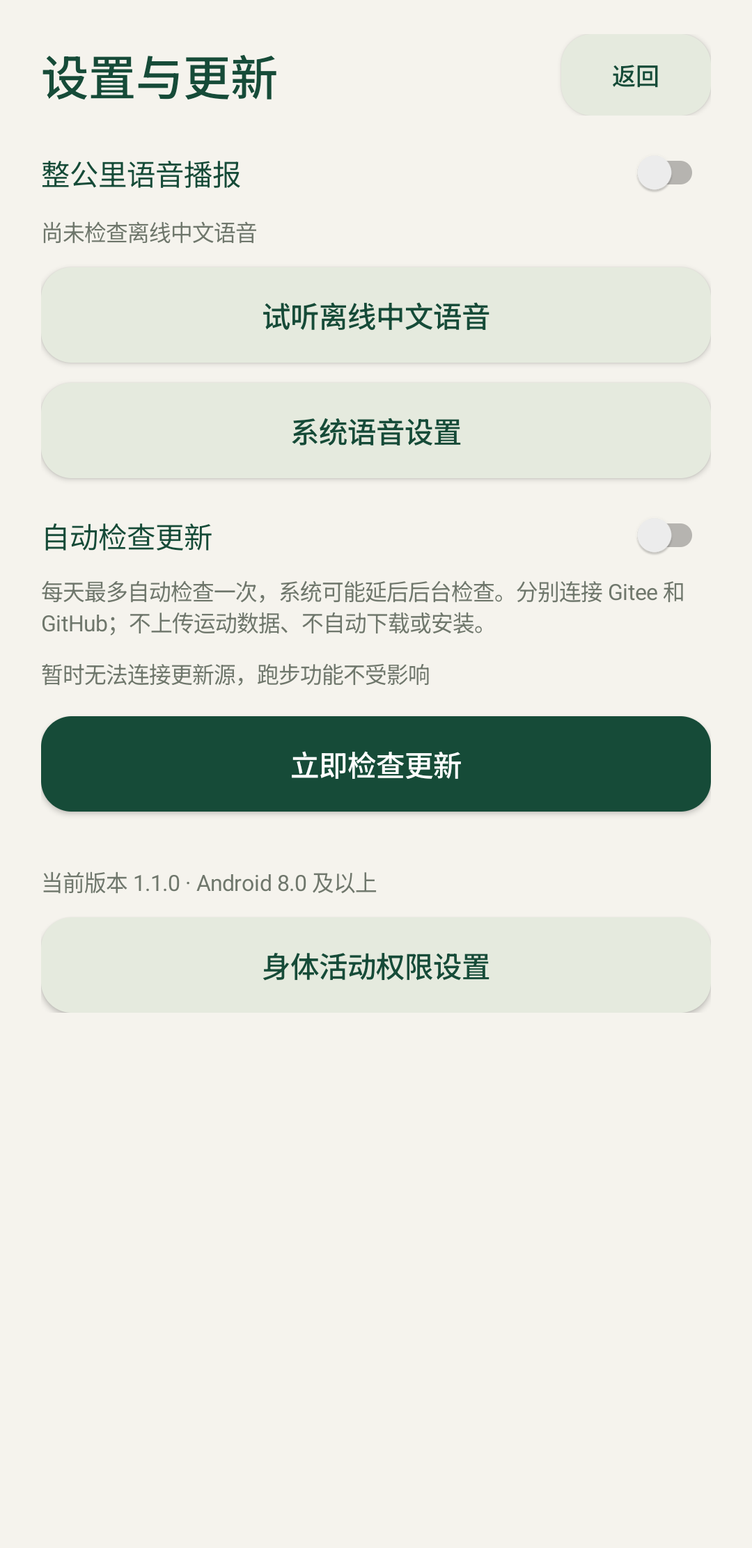
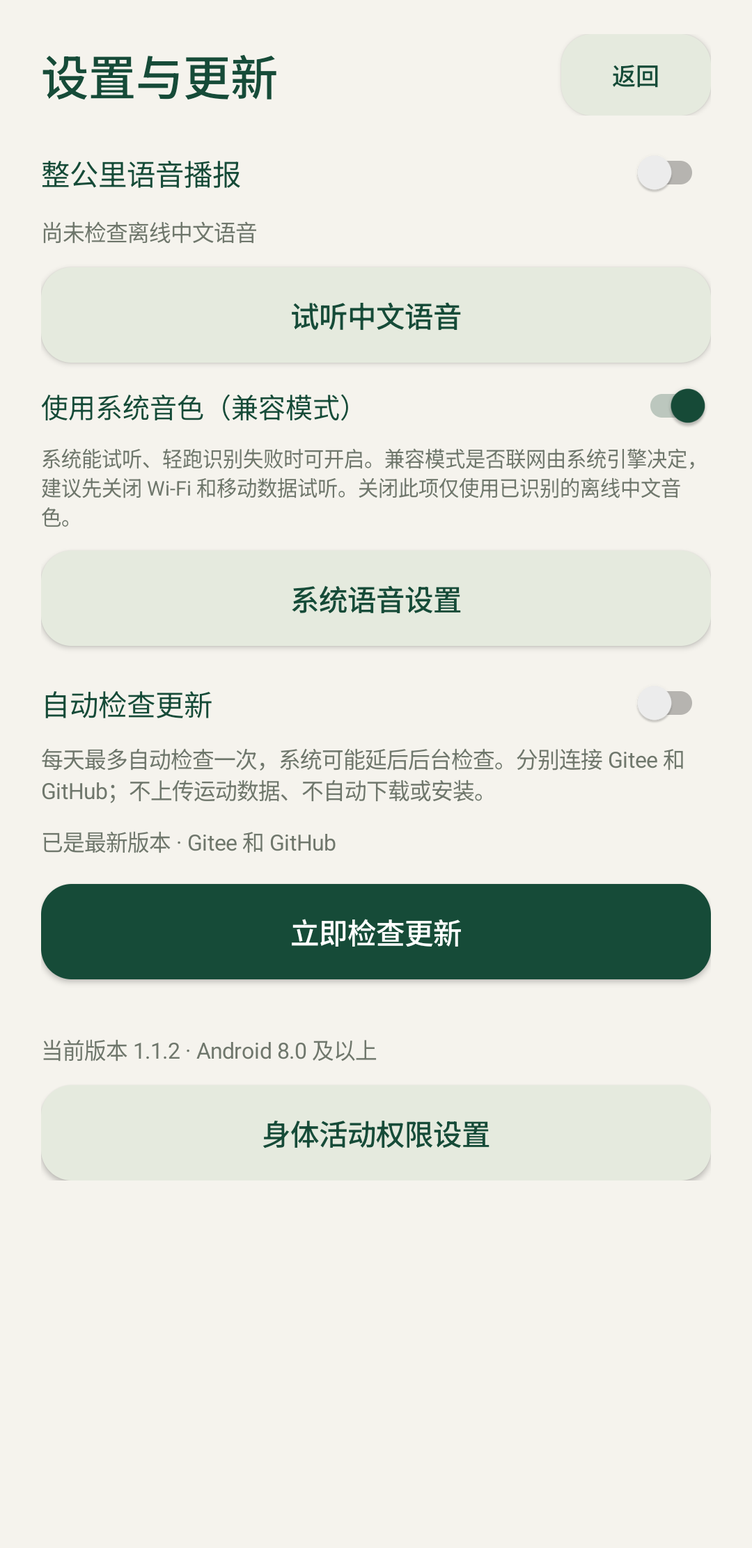
Fix Chinese voice detection and add system voice compatibility mode

diff --git a/app/src/main/java/cn/lightrun/app/MainActivity.java b/app/src/main/java/cn/lightrun/app/MainActivity.java
@@ -53,7 +53,7 @@ public final class MainActivity extends Activity {
         bound=bindService(new Intent(this,TrackingService.class),connection,BIND_AUTO_CREATE);
     }
     @Override protected void onSaveInstanceState(Bundle state) { super.onSaveInstanceState(state); state.putBoolean("pendingStart",pendingStart);state.putString("page",page);if(detail!=null)state.putString("detailId",detail.id);if(export!=null)state.putString("exportId",export.id); }
-    @Override protected void onResume() { super.onResume(); visible=true; handler.removeCallbacks(pulse); handler.post(pulse);UpdateJobService.schedule(this);handler.postDelayed(()->{if(visible)UpdateChecker.check(this,false,(info,message)->refresh());},1000); }
+    @Override protected void onResume() { super.onResume(); visible=true;if(page.equals("settings")&&service!=null&&!running())service.resetVoice();handler.removeCallbacks(pulse); handler.post(pulse);UpdateJobService.schedule(this);handler.postDelayed(()->{if(visible)UpdateChecker.check(this,false,(info,message)->refresh());},1000); }
     @Override protected void onPause() { visible=false; handler.removeCallbacks(pulse); super.onPause(); }
     @Override protected void onDestroy() { if(bound)unbindService(connection); super.onDestroy(); }
     private int dp(float value) { return Math.round(value*getResources().getDisplayMetrics().density); }
@@ -107,7 +107,7 @@ public final class MainActivity extends Activity {
         gap(16);addRoute(null);
         gap(14);TextView foot=text("离线记录 · 无广告 · 数据只存本机",12,MUTED,false);foot.setGravity(Gravity.CENTER);content.addView(foot);
         gap(6);TextView help=text("使用与隐私说明",12,GREEN,false);help.setGravity(Gravity.CENTER);help.setPadding(0,dp(12),0,dp(12));help.setOnClickListener(v->help());content.addView(help);refresh();
-        updateLink=text("设置与更新 · v1.1.1",13,GREEN,true);updateLink.setGravity(Gravity.CENTER);updateLink.setPadding(0,dp(12),0,dp(12));updateLink.setOnClickListener(v->showSettings());content.addView(updateLink);refresh();
+        updateLink=text("设置与更新 · v1.1.2",13,GREEN,true);updateLink.setGravity(Gravity.CENTER);updateLink.setPadding(0,dp(12),0,dp(12));updateLink.setOnClickListener(v->showSettings());content.addView(updateLink);refresh();
     }
     private void refresh() {
         if(page.equals("settings")) {
@@ -125,7 +125,7 @@ public final class MainActivity extends Activity {
         subtitle.setText(s!=null&&s.active?"专注脚下，剩下的交给轻跑。":"打开，即刻出发。");
         steps.setText("本次步数 · "+(s!=null&&s.stepsRecorded?String.format(Locale.CHINA,"%,d 步",s.steps):"—")
                 +(s!=null&&service!=null&&!"正在计步".equals(service.stepStatus)?"\n"+service.stepStatus:""));
-        if(updateLink!=null){UpdateInfo update=UpdateChecker.cached(this);updateLink.setText(update!=null&&update.code>UpdateChecker.installedCode(this)?"发现新版本 "+update.version+" · 查看更新":"设置与更新 · v1.1.1");}
+        if(updateLink!=null){UpdateInfo update=UpdateChecker.cached(this);updateLink.setText(update!=null&&update.code>UpdateChecker.installedCode(this)?"发现新版本 "+update.version+" · 查看更新":"设置与更新 · v1.1.2");}
     }
     private void requestStart() {
         if(service==null)return;
@@ -201,7 +201,7 @@ public final class MainActivity extends Activity {
     }
     private void help() {
         new AlertDialog.Builder(this).setTitle("轻跑 · 简单地跑")
-                .setMessage("1. 在室外开启手机定位，授予精确位置权限后点开跑。首次定位可能需要几十秒。\n\n2. 锁屏后会继续记录。OPPO 等手机请在应用电池设置中允许后台活动；不要强行停止应用。\n\n3. 暂停期间不计时、不计距离、不累计步数。定位间断超过 30 秒会分段。距离是 GPS 估算值，弱信号可能少记。\n\n4. 步数来自手机传感器，需要身体活动权限；无传感器时仍可记录轨迹。传感器延迟、暂停或中断可能少记步数。旧记录不会凭距离补算步数。\n\n5. 整公里播报使用系统离线中文语音，没有语音包时请在系统语音设置安装；可在设置中关闭播报。\n\n6. 轨迹图不含街道底图。运动记录和步数只存本机，不收集账号、不上传轨迹。只有检查更新会连接 Gitee 和 GitHub；网站会收到普通网络请求（包括 IP），不发送位置或设备标识。下载入口交给浏览器处理，不自动安装。\n\n7. 异常中断后恢复为暂停，通常最多丢失约 5 秒未保存数据。覆盖更新保留记录；卸载会删除，重要记录请先导出 GPX。")
+                .setMessage("1. 在室外开启手机定位，授予精确位置权限后点开跑。首次定位可能需要几十秒。\n\n2. 锁屏后会继续记录。OPPO 等手机请在应用电池设置中允许后台活动；不要强行停止应用。\n\n3. 暂停期间不计时、不计距离、不累计步数。定位间断超过 30 秒会分段。距离是 GPS 估算值，弱信号可能少记。\n\n4. 步数来自手机传感器，需要身体活动权限；无传感器时仍可记录轨迹。传感器延迟、暂停或中断可能少记步数。旧记录不会凭距离补算步数。\n\n5. 整公里播报默认使用已识别的离线中文音色。若系统试听正常而应用识别失败，可开启系统音色兼容模式，是否联网由系统引擎决定，建议断网试听。可在设置中关闭播报。\n\n6. 轨迹图不含街道底图。运动记录和步数只存本机，不收集账号、不上传轨迹。检查更新会连接 Gitee 和 GitHub；网站会收到普通网络请求（包括 IP），不发送位置或设备标识。主动开启语音兼容模式后，系统语音引擎可能联网处理播报文字（公里、用时、配速），请以系统引擎设置为准。下载入口交给浏览器处理，不自动安装。\n\n7. 异常中断后恢复为暂停，通常最多丢失约 5 秒未保存数据。覆盖更新保留记录；卸载会删除，重要记录请先导出 GPX。")
                 .setPositiveButton("知道了",null).show();
     }
     private boolean running(){return service!=null&&service.session!=null&&service.session.active;}
@@ -211,7 +211,10 @@ public final class MainActivity extends Activity {
         Switch voice=new Switch(this);voice.setText("整公里语音播报");voice.setTextColor(GREEN);voice.setTextSize(17);voice.setChecked(prefs.getBoolean("voice",true));content.addView(voice);
         voice.setOnCheckedChangeListener((b,enabled)->{prefs.edit().putBoolean("voice",enabled).apply();if(service!=null)service.voiceSettingsChanged(enabled);});
         gap(12);voiceStatus=text("",13,MUTED,false);content.addView(voiceStatus);gap(12);
-        Button preview=button("试听离线中文语音",false);content.addView(preview);preview.setOnClickListener(v->{if(running()){toast("请暂停后试听语音");return;}if(service!=null){service.previewVoice();handler.postDelayed(this::refresh,500);}});
+        Button preview=button("试听中文语音",false);content.addView(preview);preview.setOnClickListener(v->{if(running()){toast("请暂停后试听语音");return;}if(service!=null){service.previewVoice();handler.postDelayed(this::refresh,500);}});
+        gap(12);Switch systemVoice=new Switch(this);systemVoice.setText("使用系统音色（兼容模式）");systemVoice.setTextColor(GREEN);systemVoice.setTextSize(16);systemVoice.setChecked(prefs.getBoolean("systemVoice",false));content.addView(systemVoice);
+        systemVoice.setOnCheckedChangeListener((b,enabled)->{if(running()){toast("请暂停后切换音色模式");systemVoice.setOnCheckedChangeListener(null);systemVoice.setChecked(!enabled);showSettings();return;}prefs.edit().putBoolean("systemVoice",enabled).apply();if(service!=null)service.resetVoice();refresh();});
+        gap(8);content.addView(text("系统能试听、轻跑识别失败时可开启。兼容模式是否联网由系统引擎决定，建议先关闭 Wi-Fi 和移动数据试听。关闭此项仅使用已识别的离线中文音色。",12,MUTED,false));
         gap(12);Button speech=button("系统语音设置",false);content.addView(speech);speech.setOnClickListener(v->{try{startActivity(new Intent("com.android.settings.TTS_SETTINGS"));}catch(ActivityNotFoundException e){try{startActivity(new Intent(Settings.ACTION_SETTINGS));}catch(ActivityNotFoundException ignored){toast("请打开手机设置，搜索文字转语音");}}});
         gap(20);Switch automatic=new Switch(this);automatic.setText("自动检查更新");automatic.setTextColor(GREEN);automatic.setTextSize(17);automatic.setChecked(prefs.getBoolean("autoUpdate",true));content.addView(automatic);
         automatic.setOnCheckedChangeListener((b,enabled)->{prefs.edit().putBoolean("autoUpdate",enabled).apply();UpdateJobService.schedule(this);if(enabled&&!running())UpdateChecker.check(this,false,(info,message)->refresh());});
@@ -223,7 +226,7 @@ public final class MainActivity extends Activity {
             UpdateChecker.check(this,true,(info,message)->{if(isFinishing()||isDestroyed())return;refresh();if(!visible||running())return;if(info!=null&&info.code>UpdateChecker.installedCode(this))showUpdate(info);else toast(message);});refresh();
         });
         gap(12);download=button("查看新版与下载入口",false);content.addView(download);download.setOnClickListener(v->{UpdateInfo info=UpdateChecker.cached(this);if(info!=null)showUpdate(info);});
-        gap(20);content.addView(text("当前版本 1.1.1 · Android 8.0 及以上",13,MUTED,false));
+        gap(20);content.addView(text("当前版本 1.1.2 · Android 8.0 及以上",13,MUTED,false));
         gap(12);Button permission=button("身体活动权限设置",false);content.addView(permission);permission.setOnClickListener(v->startActivity(new Intent(Settings.ACTION_APPLICATION_DETAILS_SETTINGS,Uri.parse("package:"+getPackageName()))));refresh();
     }
     private void showUpdate(UpdateInfo info) {

diff --git a/app/src/main/java/cn/lightrun/app/VoiceCoach.java b/app/src/main/java/cn/lightrun/app/VoiceCoach.java
@@ -4,10 +4,9 @@ import android.content.Context;
 import android.media.*;
 import android.os.*;
 import android.speech.tts.*;
-import java.util.Locale;
-import java.util.Set;
+import java.util.*;
 
-/** Uses only a locally installed Chinese voice; never falls back to cloud synthesis. */
+/** Offline by default. System compatibility mode requires an explicit user preference. */
 public final class VoiceCoach {
     private final Context context;
     private final Handler main=new Handler(Looper.getMainLooper());
@@ -15,6 +14,8 @@ public final class VoiceCoach {
     private TextToSpeech tts;
     private boolean ready,closed,focused;
     private String pending;
+    private boolean compatibility;
+    private Bundle parameters;
     public String status="尚未检查离线中文语音";
     private final AudioAttributes attributes=new AudioAttributes.Builder()
             .setUsage(AudioAttributes.USAGE_ASSISTANCE_NAVIGATION_GUIDANCE).setContentType(AudioAttributes.CONTENT_TYPE_SPEECH).build();
@@ -26,43 +27,84 @@ public final class VoiceCoach {
     }
     public void prepare() {
         if(closed||tts!=null)return;
-        status="正在检查离线中文语音";
+        compatibility=UpdateChecker.preferences(context).getBoolean("systemVoice",false);
+        status="正在检查中文语音";
         tts=new TextToSpeech(context,result->main.post(()->initialize(result)));
     }
     private void initialize(int result) {
         if(closed||tts==null)return;
         if(result!=TextToSpeech.SUCCESS){status="系统语音引擎不可用";pending=null;return;}
         try {
-            Set<Voice> voices=tts.getVoices();Voice chosen=null;
-            if(voices!=null)for(Voice voice:voices) {
-                if(!"zh".equals(voice.getLocale().getLanguage())||voice.isNetworkConnectionRequired()
-                        ||(voice.getFeatures()!=null&&voice.getFeatures().contains(TextToSpeech.Engine.KEY_FEATURE_NOT_INSTALLED)))continue;
-                if(chosen==null||("CN".equals(voice.getLocale().getCountry())&&!"CN".equals(chosen.getLocale().getCountry()))
-                        ||(voice.getLocale().getCountry().equals(chosen.getLocale().getCountry())&&voice.getQuality()>chosen.getQuality()))chosen=voice;
-            }
-            if(chosen==null||tts.setVoice(chosen)!=TextToSpeech.SUCCESS){status="未安装离线中文语音，请在系统语音设置中安装";pending=null;return;}
+            parameters=new Bundle();
+            boolean selected=compatibility?selectSystemVoice():selectOfflineVoice();
+            if(!selected){status=compatibility?"系统引擎未能提供中文语音，请检查系统试听":"无法识别可用的离线中文音色，可尝试系统音色兼容模式";pending=null;return;}
             tts.setAudioAttributes(attributes);tts.setSpeechRate(1f);
             tts.setOnUtteranceProgressListener(new UtteranceProgressListener() {
                 public void onStart(String id){}
                 public void onDone(String id){main.post(()->releaseFocus());}
-                @Override public void onError(String id){main.post(()->{status="语音播放失败，请检查系统语音设置";releaseFocus();});}
+                @Override public void onError(String id){onError(id,TextToSpeech.ERROR);}
+                @Override public void onError(String id,int error){main.post(()->{ready=false;status="语音播放失败（"+error+"），请检查系统语音设置";releaseFocus();});}
             });
-            ready=true;status="离线中文语音已就绪";
+            ready=true;status=compatibility?"系统中文音色已就绪 · 离线能力由系统引擎决定":"离线中文语音已就绪";
             String text=pending;pending=null;if(text!=null)speak(text);
         } catch(RuntimeException e){status="系统语音引擎不可用";pending=null;}
+    }
+    private static boolean chinese(Locale locale) {
+        if(locale==null)return false;
+        String language=locale.getLanguage();
+        return "zh".equalsIgnoreCase(language)||"zho".equalsIgnoreCase(language)||"chi".equalsIgnoreCase(language);
+    }
+    private static boolean local(Voice voice) {
+        return voice!=null&&chinese(voice.getLocale())&&!voice.isNetworkConnectionRequired()
+                &&(voice.getFeatures()==null||!voice.getFeatures().contains(TextToSpeech.Engine.KEY_FEATURE_NOT_INSTALLED));
+    }
+    private static boolean mainland(Voice voice) {
+        String country=voice.getLocale().getCountry();return "CN".equalsIgnoreCase(country)||"CHN".equalsIgnoreCase(country);
+    }
+    private boolean chooseOffline() {
+        // Keep the user's preferred Chinese voice when the engine exposes it as local.
+        Voice current=tts.getVoice();
+        if(local(current)&&tts.setVoice(current)==TextToSpeech.SUCCESS)return true;
+        Set<Voice> voices=tts.getVoices();List<Voice> candidates=new ArrayList<>();
+        if(voices!=null)for(Voice voice:voices)if(local(voice))candidates.add(voice);
+        candidates.sort(Comparator.comparingInt((Voice v)->mainland(v)?1:0).thenComparingInt(Voice::getQuality).reversed());
+        for(Voice voice:candidates)if(tts.setVoice(voice)==TextToSpeech.SUCCESS)return true;
+        return false;
+    }
+    @SuppressWarnings("deprecation")
+    private boolean selectOfflineVoice() {
+        if(chooseOffline())return true;
+        // Some engines populate their voice list only after a language capability query.
+        tts.isLanguageAvailable(Locale.SIMPLIFIED_CHINESE);
+        if(chooseOffline())return true;
+        Set<Voice> voices=tts.getVoices();
+        // Legacy embedded synthesis is used only when there is no conflicting modern metadata.
+        if(voices!=null&&!voices.isEmpty())return false;
+        Set<String> features=tts.getFeatures(Locale.SIMPLIFIED_CHINESE);
+        if(features==null||!features.contains(TextToSpeech.Engine.KEY_FEATURE_EMBEDDED_SYNTHESIS))return false;
+        if(!chinese(tts.getLanguage())&&tts.setLanguage(Locale.SIMPLIFIED_CHINESE)<TextToSpeech.LANG_AVAILABLE)return false;
+        parameters.putBoolean(TextToSpeech.Engine.KEY_FEATURE_EMBEDDED_SYNTHESIS,true);
+        parameters.putBoolean(TextToSpeech.Engine.KEY_FEATURE_NETWORK_SYNTHESIS,false);
+        return true;
+    }
+    @SuppressWarnings("deprecation")
+    private boolean selectSystemVoice() {
+        // Preserve the system preset. This opt-in path does not claim to enforce offline synthesis.
+        if(chinese(tts.getLanguage()))return true;
+        return tts.setLanguage(Locale.SIMPLIFIED_CHINESE)>=TextToSpeech.LANG_AVAILABLE;
     }
     public void speak(String text) {
         if(closed)return;
         if(tts==null){pending=text;prepare();return;}
         if(!ready){
             pending=text;
-            if(!"正在检查离线中文语音".equals(status)){tts.shutdown();tts=null;prepare();}
+            if(!"正在检查中文语音".equals(status)){tts.shutdown();tts=null;prepare();}
             return;
         }
         if(audio.getMode()!=AudioManager.MODE_NORMAL)return; // Do not interrupt a call.
         if(audio.requestAudioFocus(focus)!=AudioManager.AUDIOFOCUS_REQUEST_GRANTED){status="音频正忙，本次播报已跳过";return;}
         focused=true;
-        if(tts.speak(text,TextToSpeech.QUEUE_FLUSH,null,"kilometer")!=TextToSpeech.SUCCESS){status="语音播放失败";releaseFocus();}
+        if(tts.speak(text,TextToSpeech.QUEUE_FLUSH,parameters,"kilometer")!=TextToSpeech.SUCCESS){ready=false;status="语音播放失败，请检查系统语音设置";releaseFocus();}
     }
     public static String kilometer(int kilometers,double meters,long durationMs) {
         long seconds=Math.max(0,durationMs/1000),pace=Math.round(seconds/Math.max(.001,meters/1000));

diff --git a/app/src/androidTest/java/cn/lightrun/app/RunInstrumentation.java b/app/src/androidTest/java/cn/lightrun/app/RunInstrumentation.java
@@ -110,21 +110,51 @@ public final class RunInstrumentation extends Instrumentation {
     }
     private void speechTests() throws Exception {
         String original=android.provider.Settings.Secure.getString(getTargetContext().getContentResolver(),"tts_default_synth");
+        String originalLocale=android.provider.Settings.Secure.getString(getTargetContext().getContentResolver(),"tts_default_locale");
         shell("settings put secure tts_default_synth cn.lightrun.app.test");
-        CountDownLatch synthesized=new CountDownLatch(1);String[] received={"",""};
-        BroadcastReceiver receiver=new BroadcastReceiver(){public void onReceive(Context c,Intent i){received[0]=i.getStringExtra("voice");received[1]=i.getStringExtra("text");synthesized.countDown();}};
+        shell("settings put secure tts_default_locale cn.lightrun.app.test:zh_CN");
+        try {
+            speechCase("modern",false,"test-zh-offline",false);
+            speechCase("alias",false,"test-zh-offline",false);
+            speechCase("legacy",false,"test-zh-offline",true);
+            speechCase("lazy",false,"test-zh-offline",false);
+            speechCase("reject",false,"test-zh-offline",false);
+            speechCase("unknown",false,null,false);
+            speechCase("unknown",true,"test-zh-offline",false);
+            speechCase("cloud",false,null,false);
+            speechCase("cloud",true,"test-zh-online",false);
+            speechCase("missing",false,null,false);
+            speechCase("missing",true,"test-zh-offline",false);
+        } finally {
+            UpdateChecker.preferences(getTargetContext()).edit().remove("systemVoice").apply();
+            shell("settings delete global lightrun_test_tts_mode");
+            shell(original==null?"settings delete secure tts_default_synth":"settings put secure tts_default_synth "+original);
+            shell(originalLocale==null?"settings delete secure tts_default_locale":"settings put secure tts_default_locale "+originalLocale);
+        }
+    }
+    private void speechCase(String mode,boolean compatibility,String expectedVoice,boolean embedded) throws Exception {
+        shell("settings put global lightrun_test_tts_mode "+mode);
+        UpdateChecker.preferences(getTargetContext()).edit().putBoolean("systemVoice",compatibility).apply();
+        CountDownLatch synthesized=new CountDownLatch(1);String[] received={"",""};boolean[] local={false};
+        BroadcastReceiver receiver=new BroadcastReceiver(){public void onReceive(Context c,Intent i){received[0]=i.getStringExtra("voice");received[1]=i.getStringExtra("text");local[0]=i.getBooleanExtra("embedded",false);synthesized.countDown();}};
         if(Build.VERSION.SDK_INT>=33)getTargetContext().registerReceiver(receiver,new IntentFilter("cn.lightrun.TEST_SYNTHESIZE"),Context.RECEIVER_EXPORTED);
         else getTargetContext().registerReceiver(receiver,new IntentFilter("cn.lightrun.TEST_SYNTHESIZE"));
         VoiceCoach[] coach={null};
         try {
             runOnMainSync(()->{coach[0]=new VoiceCoach(getTargetContext());coach[0].speak(VoiceCoach.kilometer(1,1000,360000));});
-            check(synthesized.await(12,TimeUnit.SECONDS),"Android TTS synthesis completes: "+coach[0].status);
-            check("test-zh-offline".equals(received[0]),"TTS chooses offline voice even when online voice has higher quality");
-            check(received[1].contains("已跑1公里"),"kilometer text delivered to Android TTS service");
+            if(expectedVoice==null){
+                for(int i=0;i<80;i++){Thread.sleep(100);waitForIdleSync();if(!coach[0].status.startsWith("正在检查"))break;}
+                check(coach[0].status.startsWith("无法识别"),mode+": unknown/online/uninstalled metadata is not misreported as uninstalled");
+                check(!synthesized.await(700,TimeUnit.MILLISECONDS),mode+": offline mode does not silently synthesize with an unverified voice");
+            } else {
+                check(synthesized.await(12,TimeUnit.SECONDS),mode+": Android TTS synthesis completes: "+coach[0].status);
+                check(expectedVoice.equals(received[0]),mode+": selected expected voice");
+                check(received[1].contains("已跑1公里")&&local[0]==embedded,mode+": Chinese text and embedded flag delivered");
+                check(coach[0].status.contains(compatibility?"由系统引擎决定":"离线中文语音已就绪"),mode+": accurate readiness label");
+            }
         } finally {
             runOnMainSync(()->{if(coach[0]!=null)coach[0].close();});
             getTargetContext().unregisterReceiver(receiver);
-            shell(original==null?"settings delete secure tts_default_synth":"settings put secure tts_default_synth "+original);
         }
     }
     private void invalid(String json,String label){try{UpdateInfo.parse(json);check(false,label);}catch(Exception expected){check(true,label);}}

diff --git a/app/src/androidTest/java/cn/lightrun/app/TestSpeechService.java b/app/src/androidTest/java/cn/lightrun/app/TestSpeechService.java
@@ -6,19 +6,34 @@ import java.util.*;
 
 /** Test APK only: records synthesis requests and returns a short PCM tone, not spoken Chinese. */
 public final class TestSpeechService extends TextToSpeechService {
-    protected int onIsLanguageAvailable(String language,String country,String variant){return TextToSpeech.LANG_COUNTRY_AVAILABLE;}
+    private boolean queried;
+    private String mode(){return android.provider.Settings.Global.getString(getContentResolver(),"lightrun_test_tts_mode");}
+    protected int onIsLanguageAvailable(String language,String country,String variant){queried=true;return TextToSpeech.LANG_COUNTRY_AVAILABLE;}
     protected int onLoadLanguage(String language,String country,String variant){return TextToSpeech.LANG_COUNTRY_AVAILABLE;}
     protected String[] onGetLanguage(){return new String[]{"zho","CHN",""};}
     protected void onStop(){}
-    public List<Voice> onGetVoices(){return Arrays.asList(
-            new Voice("test-zh-offline",Locale.SIMPLIFIED_CHINESE,Voice.QUALITY_NORMAL,Voice.LATENCY_NORMAL,false,Collections.emptySet()),
-            new Voice("test-zh-online",Locale.SIMPLIFIED_CHINESE,Voice.QUALITY_VERY_HIGH,Voice.LATENCY_VERY_LOW,true,Collections.emptySet()));}
-    public int onIsValidVoiceName(String name){return name.startsWith("test-zh-")?TextToSpeech.SUCCESS:TextToSpeech.ERROR;}
-    public int onLoadVoice(String name){return onIsValidVoiceName(name);}
-    public String onGetDefaultVoiceNameFor(String language,String country,String variant){return "test-zh-offline";}
+    public List<Voice> onGetVoices(){
+        String mode=mode();
+        if("legacy".equals(mode)||"unknown".equals(mode)||("lazy".equals(mode)&&!queried))return Collections.emptyList();
+        Voice online=new Voice("test-zh-online",Locale.SIMPLIFIED_CHINESE,Voice.QUALITY_VERY_HIGH,Voice.LATENCY_VERY_LOW,true,Collections.emptySet());
+        if("cloud".equals(mode))return Collections.singletonList(online);
+        Locale locale="alias".equals(mode)?new Locale("zho","CHN"):Locale.SIMPLIFIED_CHINESE;
+        Set<String> features="missing".equals(mode)?Collections.singleton(TextToSpeech.Engine.KEY_FEATURE_NOT_INSTALLED):Collections.emptySet();
+        Voice offline=new Voice("test-zh-offline",locale,Voice.QUALITY_NORMAL,Voice.LATENCY_NORMAL,false,features);
+        if("reject".equals(mode))return Arrays.asList(new Voice("test-zh-broken",locale,Voice.QUALITY_VERY_HIGH,Voice.LATENCY_NORMAL,false,features),offline,online);
+        return Arrays.asList(offline,online);
+    }
+    @SuppressWarnings("deprecation")
+    protected Set<String> onGetFeaturesForLanguage(String language,String country,String variant){
+        return "legacy".equals(mode())?Collections.singleton(TextToSpeech.Engine.KEY_FEATURE_EMBEDDED_SYNTHESIS):Collections.emptySet();
+    }
+    public int onIsValidVoiceName(String name){return name.startsWith("test-zh-")&&!"test-zh-broken".equals(name)?TextToSpeech.SUCCESS:TextToSpeech.ERROR;}
+    public int onLoadVoice(String name){return "test-zh-broken".equals(name)?TextToSpeech.ERROR:onIsValidVoiceName(name);}
+    public String onGetDefaultVoiceNameFor(String language,String country,String variant){return "cloud".equals(mode())?"test-zh-online":"reject".equals(mode())?"test-zh-broken":"test-zh-offline";}
     protected void onSynthesizeText(SynthesisRequest request,SynthesisCallback callback) {
         sendBroadcast(new android.content.Intent("cn.lightrun.TEST_SYNTHESIZE").setPackage("cn.lightrun.app")
-                .putExtra("voice",request.getVoiceName()).putExtra("text",request.getCharSequenceText().toString()));
+                .putExtra("voice",request.getVoiceName()).putExtra("text",request.getCharSequenceText().toString())
+                .putExtra("embedded",request.getParams().getBoolean("embeddedTts",false)));
         callback.start(16000,AudioFormat.ENCODING_PCM_16BIT,1);
         byte[] buffer=new byte[3200];
         for(int i=0;i<1600;i++){short value=(short)(Math.sin(i*2*Math.PI*440/16000)*1500);buffer[2*i]=(byte)value;buffer[2*i+1]=(byte)(value>>8);}

diff --git a/app/src/main/java/cn/lightrun/app/TrackingService.java b/app/src/main/java/cn/lightrun/app/TrackingService.java
@@ -140,6 +140,7 @@ public final class TrackingService extends Service implements LocationListener, 
     public String voiceStatus(){return voice.status;}
     public void previewVoice(){voice.speak("轻跑语音播报。已跑一公里，用时六分钟，平均配速六分钟每公里。");}
     public void stopVoice(){voice.stop();}
+    public void resetVoice(){voice.close();voice=new VoiceCoach(this);if(settings.getBoolean("voice",true))voice.prepare();}
     public void voiceSettingsChanged(boolean enabled) {
         if(!enabled){voice.stop();return;}
         if(foreground&&session!=null&&session.active&&Build.VERSION.SDK_INT>=29) {

diff --git a/README.md b/README.md
@@ -2,13 +2,13 @@
 
 一个打开就能开跑的极简 Android 跑步轨迹记录器。
 
-无需账号、没有广告、不依赖 Google 服务。跑步记录离线完成，运动数据保存在手机本地；只有检查更新会联网。
+无需账号、没有广告、不依赖 Google 服务。跑步记录离线完成，运动数据保存在手机本地；默认仅检查更新会联网；主动开启语音兼容模式后，系统语音引擎也可能联网。
 
 公开源码：[Gitee（国内优先）](https://gitee.com/XLxiaoliao/lightrun) · [GitHub](https://github.com/XLxiaoliaoGmail/lightrun)。
 
 ## 界面预览
 
-以下截图来自 v1.1.0 发布版在 Android 模拟器中的实际界面，仅展示应用内容区域。运动记录、步数和轨迹均为演示数据，不包含用户的真实位置或运动历史。模拟器没有计步传感器，因此跑步界面也展示了不支持计步时的提示。
+以下截图来自 v1.1.2 发布版在 Android 模拟器中的实际界面，仅展示应用内容区域。运动记录、步数和轨迹均为演示数据，不包含用户的真实位置或运动历史。模拟器没有计步传感器，因此跑步界面也展示了不支持计步时的提示。
 
 | 首页 · 一键开跑 | 跑步中 · 实时轨迹 |
 | :---: | :---: |
@@ -16,7 +16,7 @@
 | **历史记录** | **轨迹详情 · GPX 导出** |
 | <img src="docs/screenshots/history.png" width="270" alt="历史记录列表：每次跑步的日期、距离、时长和配速"> | <img src="docs/screenshots/detail.png" width="270" alt="轨迹详情：运动数据、离线轨迹、GPX 导出和删除按钮"> |
 
-**语音与更新设置**
+**语音与更新设置**（示例展示已开启兼容模式，默认关闭）
 
 <img src="docs/screenshots/settings.png" width="270" alt="设置页面：整公里播报、离线语音试听、自动检查更新和手动更新入口">
 
@@ -25,7 +25,7 @@
 - 开跑、暂停、继续、结束保存
 - GPS 轨迹、运动时长、距离和平均配速
 - 本次跑步步数，暂停期间不累计；没有计步传感器或未授权时仍可记录轨迹
-- 整公里离线中文语音播报，可关闭、试听，并跳转系统语音设置
+- 整公里中文语音播报，默认离线，支持系统音色兼容模式、关闭和试听
 - 默认自动检查 Gitee 和 GitHub 更新，每 24 小时最多自动尝试一次，可关闭或手动检查
 - 锁屏后通过定位前台服务继续记录
 - 北向上的离线轨迹图、历史记录和删除
@@ -36,13 +36,13 @@
 
 ## 安装
 
-最低 Android 8.0（API 26）。下载 `lightrun-1.1.1.apk`：[Gitee 发布页](https://gitee.com/XLxiaoliao/lightrun/releases/tag/v1.1.1) · [GitHub 发布页](https://github.com/XLxiaoliaoGmail/lightrun/releases/tag/v1.1.1) · [仓库中的发布包](releases/v1.1.1/lightrun-1.1.1.apk)。
+最低 Android 8.0（API 26）。下载 `lightrun-1.1.2.apk`：[Gitee 发布页](https://gitee.com/XLxiaoliao/lightrun/releases/tag/v1.1.2) · [GitHub 发布页](https://github.com/XLxiaoliaoGmail/lightrun/releases/tag/v1.1.2) · [仓库中的发布包](releases/v1.1.2/lightrun-1.1.2.apk)。
 
 从官方 v1.0.0 升级时直接覆盖安装，不要先卸载。旧运动记录会保留，旧记录的步数显示为“未记录”。
 
 开启手机定位，授予精确位置权限后点“开跑”。建议允许通知，并在手机的电池设置中允许应用后台活动。首次使用请在室外锁屏试跑，确认记录持续进行。
 
-计步需要身体活动权限和系统计步传感器；优先使用逐步事件，没有逐步传感器时使用累计计步器。传感器延迟、暂停和中断可能少记步数，数据不是医疗级测量。播报需要系统已安装的离线中文语音；轻跑不会退回在线语音或自动下载语音包。可通过“设置与更新”试听和调整。
+计步需要身体活动权限和系统计步传感器；优先使用逐步事件，没有逐步传感器时使用累计计步器。传感器延迟、暂停和中断可能少记步数，数据不是医疗级测量。播报默认只选择可识别的离线中文音色，也兼容只提供旧式离线接口的引擎，不会自动切换在线音色。若手机系统能试听、轻跑仍识别失败，可手动开启“使用系统音色（兼容模式）”。此模式沿用系统中文音色，是否联网取决于系统引擎，建议关闭 Wi-Fi 和移动数据后试听确认。兼容模式下，系统引擎可能联网处理播报文字（公里、用时、平均配速），不包含 GPS 轨迹。
 
 ## 构建
 

diff --git a/docs/VALIDATION.md b/docs/VALIDATION.md
@@ -1,5 +1,18 @@
 # 验证记录
 
+## v1.1.2
+
+修正“未安装离线中文语音”的过度判断。默认模式识别中文三字母语言代码，保留可识别的系统离线音色，兼容延迟返回音色列表和旧式 embeddedTts 接口，并在一个音色不可用时尝试其他离线音色。增加用户主动开启的系统音色兼容模式；此模式不宣称强制离线，界面和隐私说明明确提示系统引擎可能联网。
+
+- Android 8 / 15 / 16（API 26 / 35 / 36）模拟器分别通过 76 项设备断言。
+- 测试覆盖标准音色、三字母中文代码、旧式离线接口、延迟列表、不可用音色、缺失元数据、仅在线音色、未安装标记及兼容模式。默认模式拒绝未验证的在线或缺失音色，不发生静默降级。
+- 55 项核心断言、正式 release 构建与 Android Lint 通过。
+- 正式 APK 签名证书与已有版本一致，v1.1.1 覆盖升级后旧格式记录仍可读取。
+- 正式 APK 原有界面与权限流程通过 12 项断言；新增设置开关、偏好保存与兼容试听状态已通过实际界面操作验证。
+- 公开源码无签名配置重新构建成功，9 个 APK 功能条目与正式签名包一致。
+
+测试使用合成音引擎，并非厂商引擎或真实中文发音。无法仅凭系统设置截图确认具体厂商返回的数据，实际手机仍需用新版试听；系统音色兼容模式建议关闭 Wi-Fi 和移动数据后确认。
+
 ## v1.1.1
 
 在 v1.1.0 功能基础上，将 GitHub 更新源改为公开原始文件，避免共享网络出口的匿名 REST API 限额。已使用正式签名 APK 联机验证同时读取 Gitee 和 GitHub、启动时自动检查、后台每日任务存在，以及同一天再次进入应用不会重复自动检查。构建与 Android Lint 通过。

diff --git a/docs/RELEASE-AUDIT.md b/docs/RELEASE-AUDIT.md
@@ -9,7 +9,7 @@
 - 文档不包含维护者真实姓名、邮箱、电脑名称或个人设备型号。
 - 测试中的坐标为明确标注的合成数据；不分发运动记录、GPX 测试文件或应用私有数据。
 - APK 压缩条目及解压内容检查本机路径、个人身份和凭据；正式包无调试入口、测试语音引擎或预置轨迹。
-- v1.1.x 联网仅用于获取两个公开仓库的更新元数据；不包含发布令牌、私钥、设备标识或运动数据上传接口。
+- 默认联网仅用于获取两个公开仓库的更新元数据；不包含发布令牌、私钥、设备标识或运动轨迹上传接口。v1.1.2 的系统音色兼容模式需要主动开启，系统引擎可能联网处理公里、用时和配速等播报文字；已在界面和 README 中说明。
 - Gradle Wrapper JAR 与官方 SHA-256 校验值比对。
 - Git 提交使用项目署名，不使用维护者的全局 Git 姓名或个人邮箱。
 
